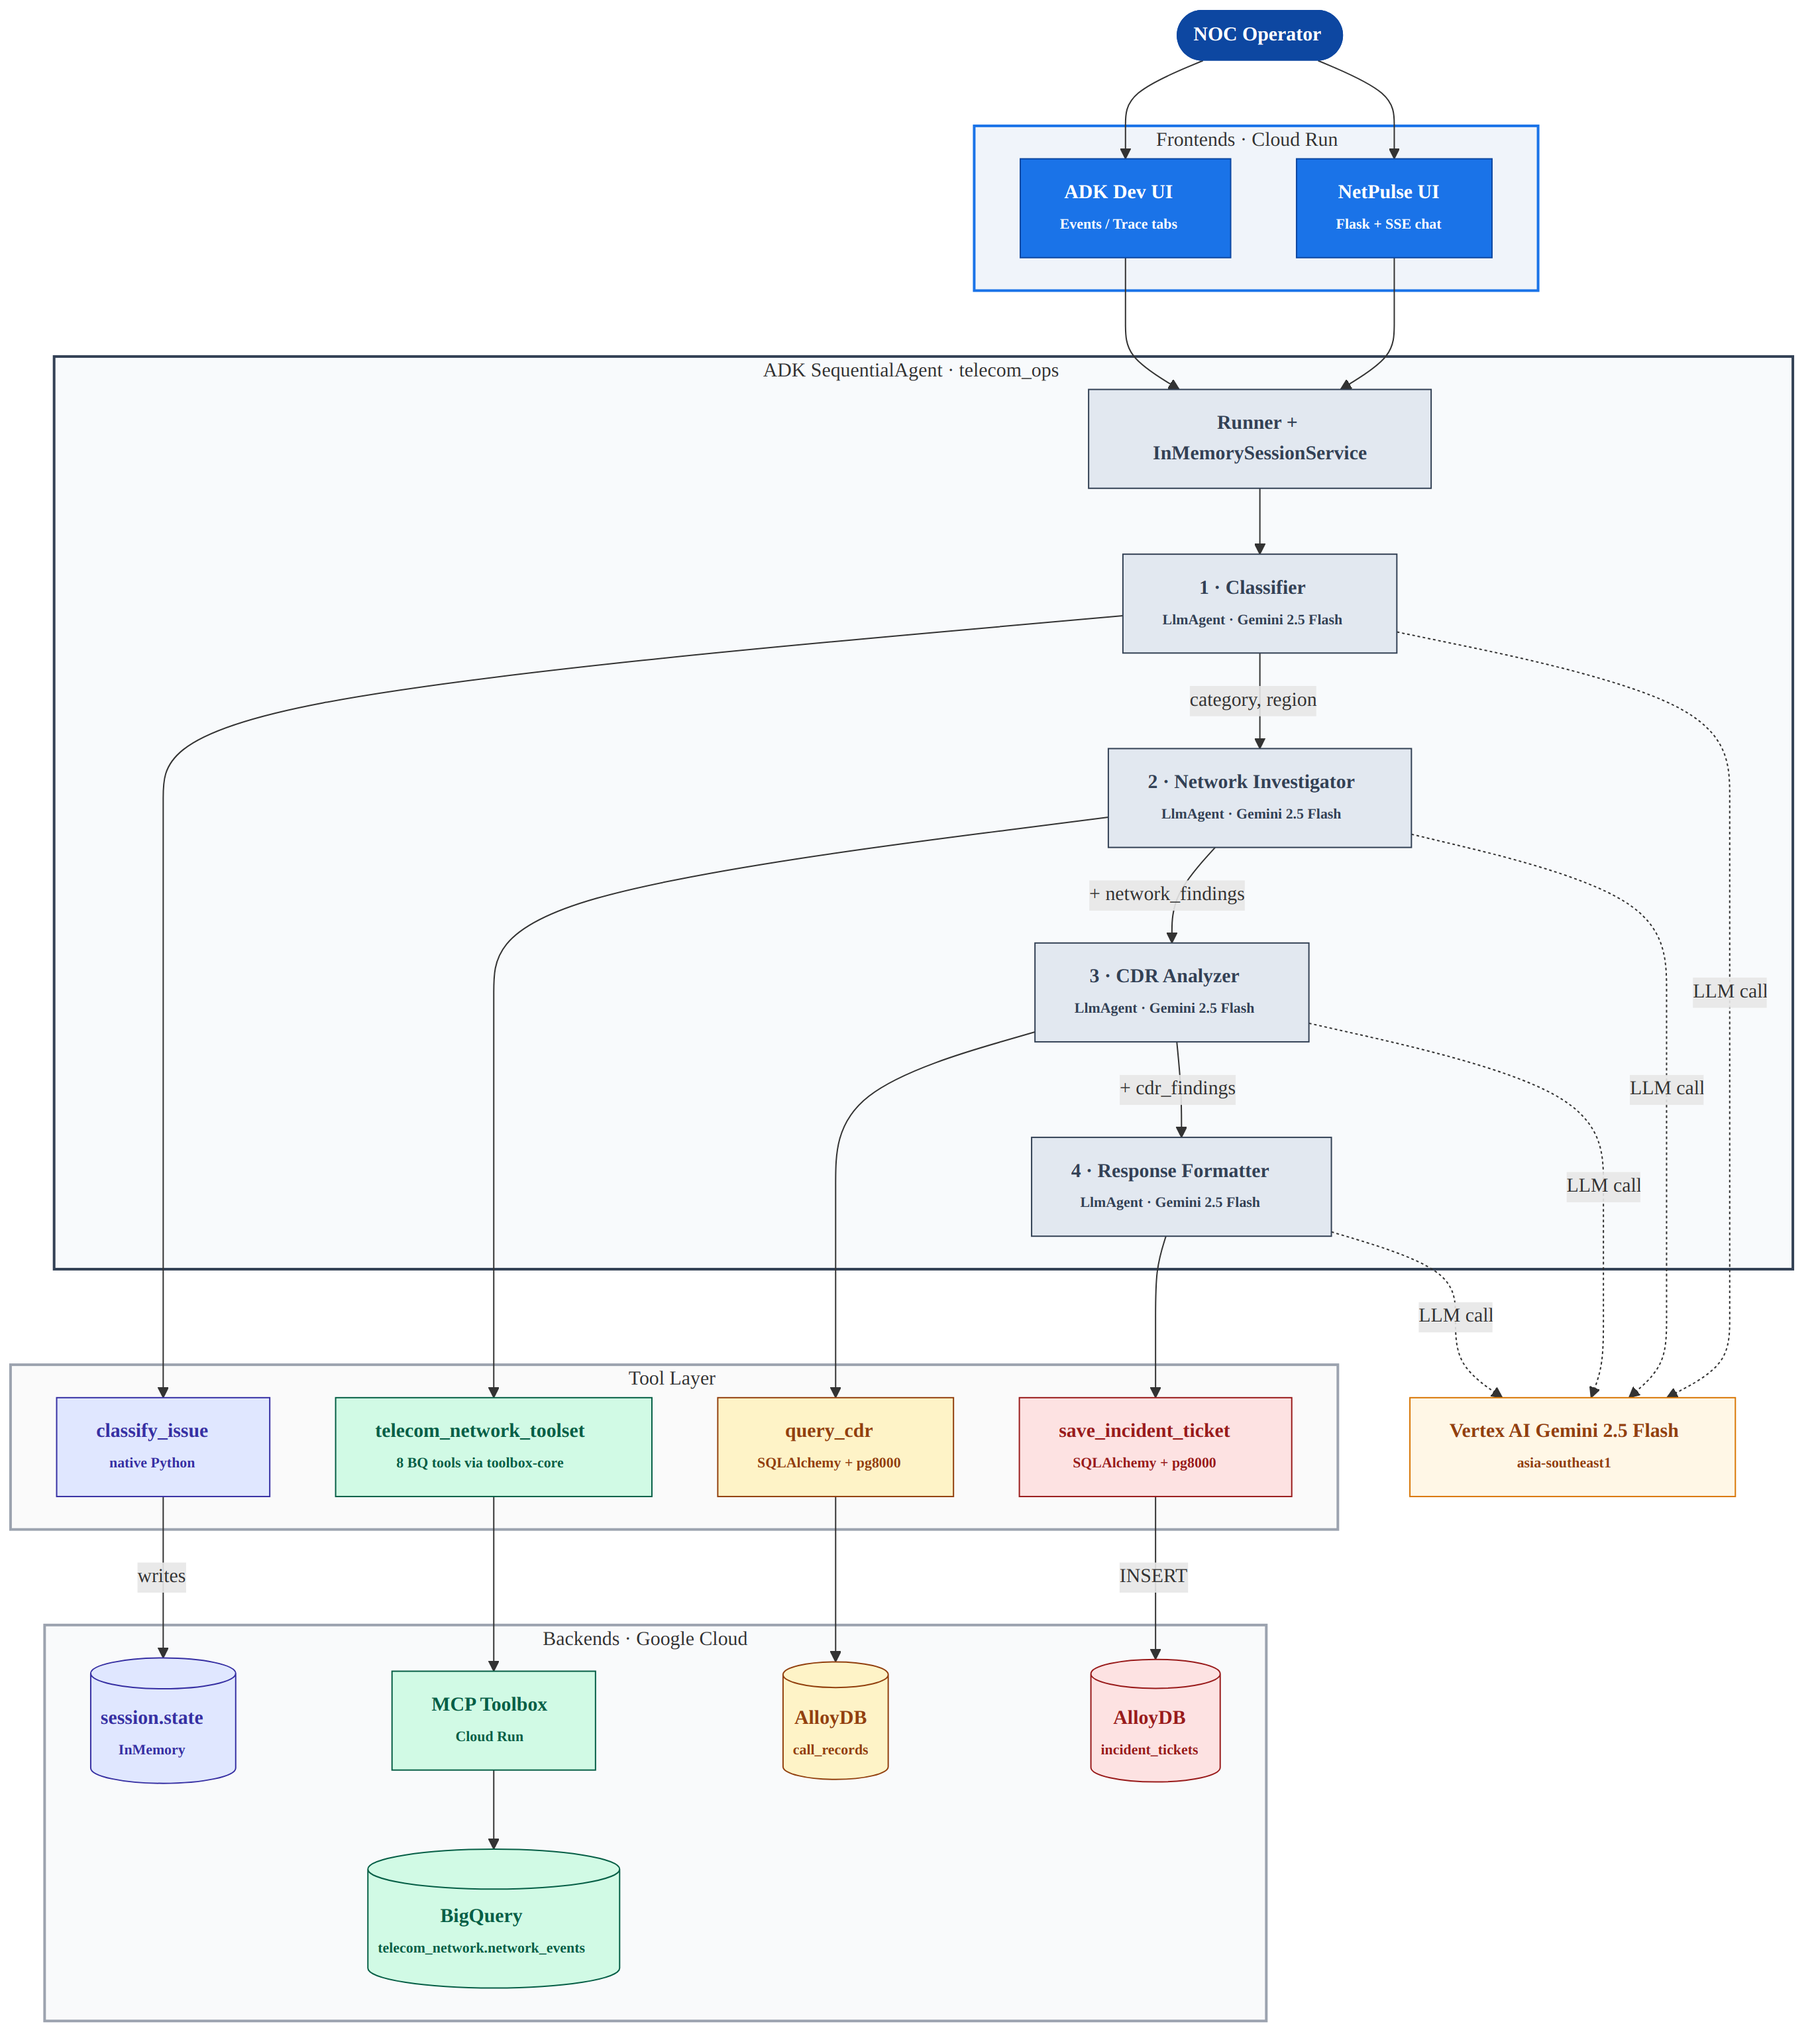
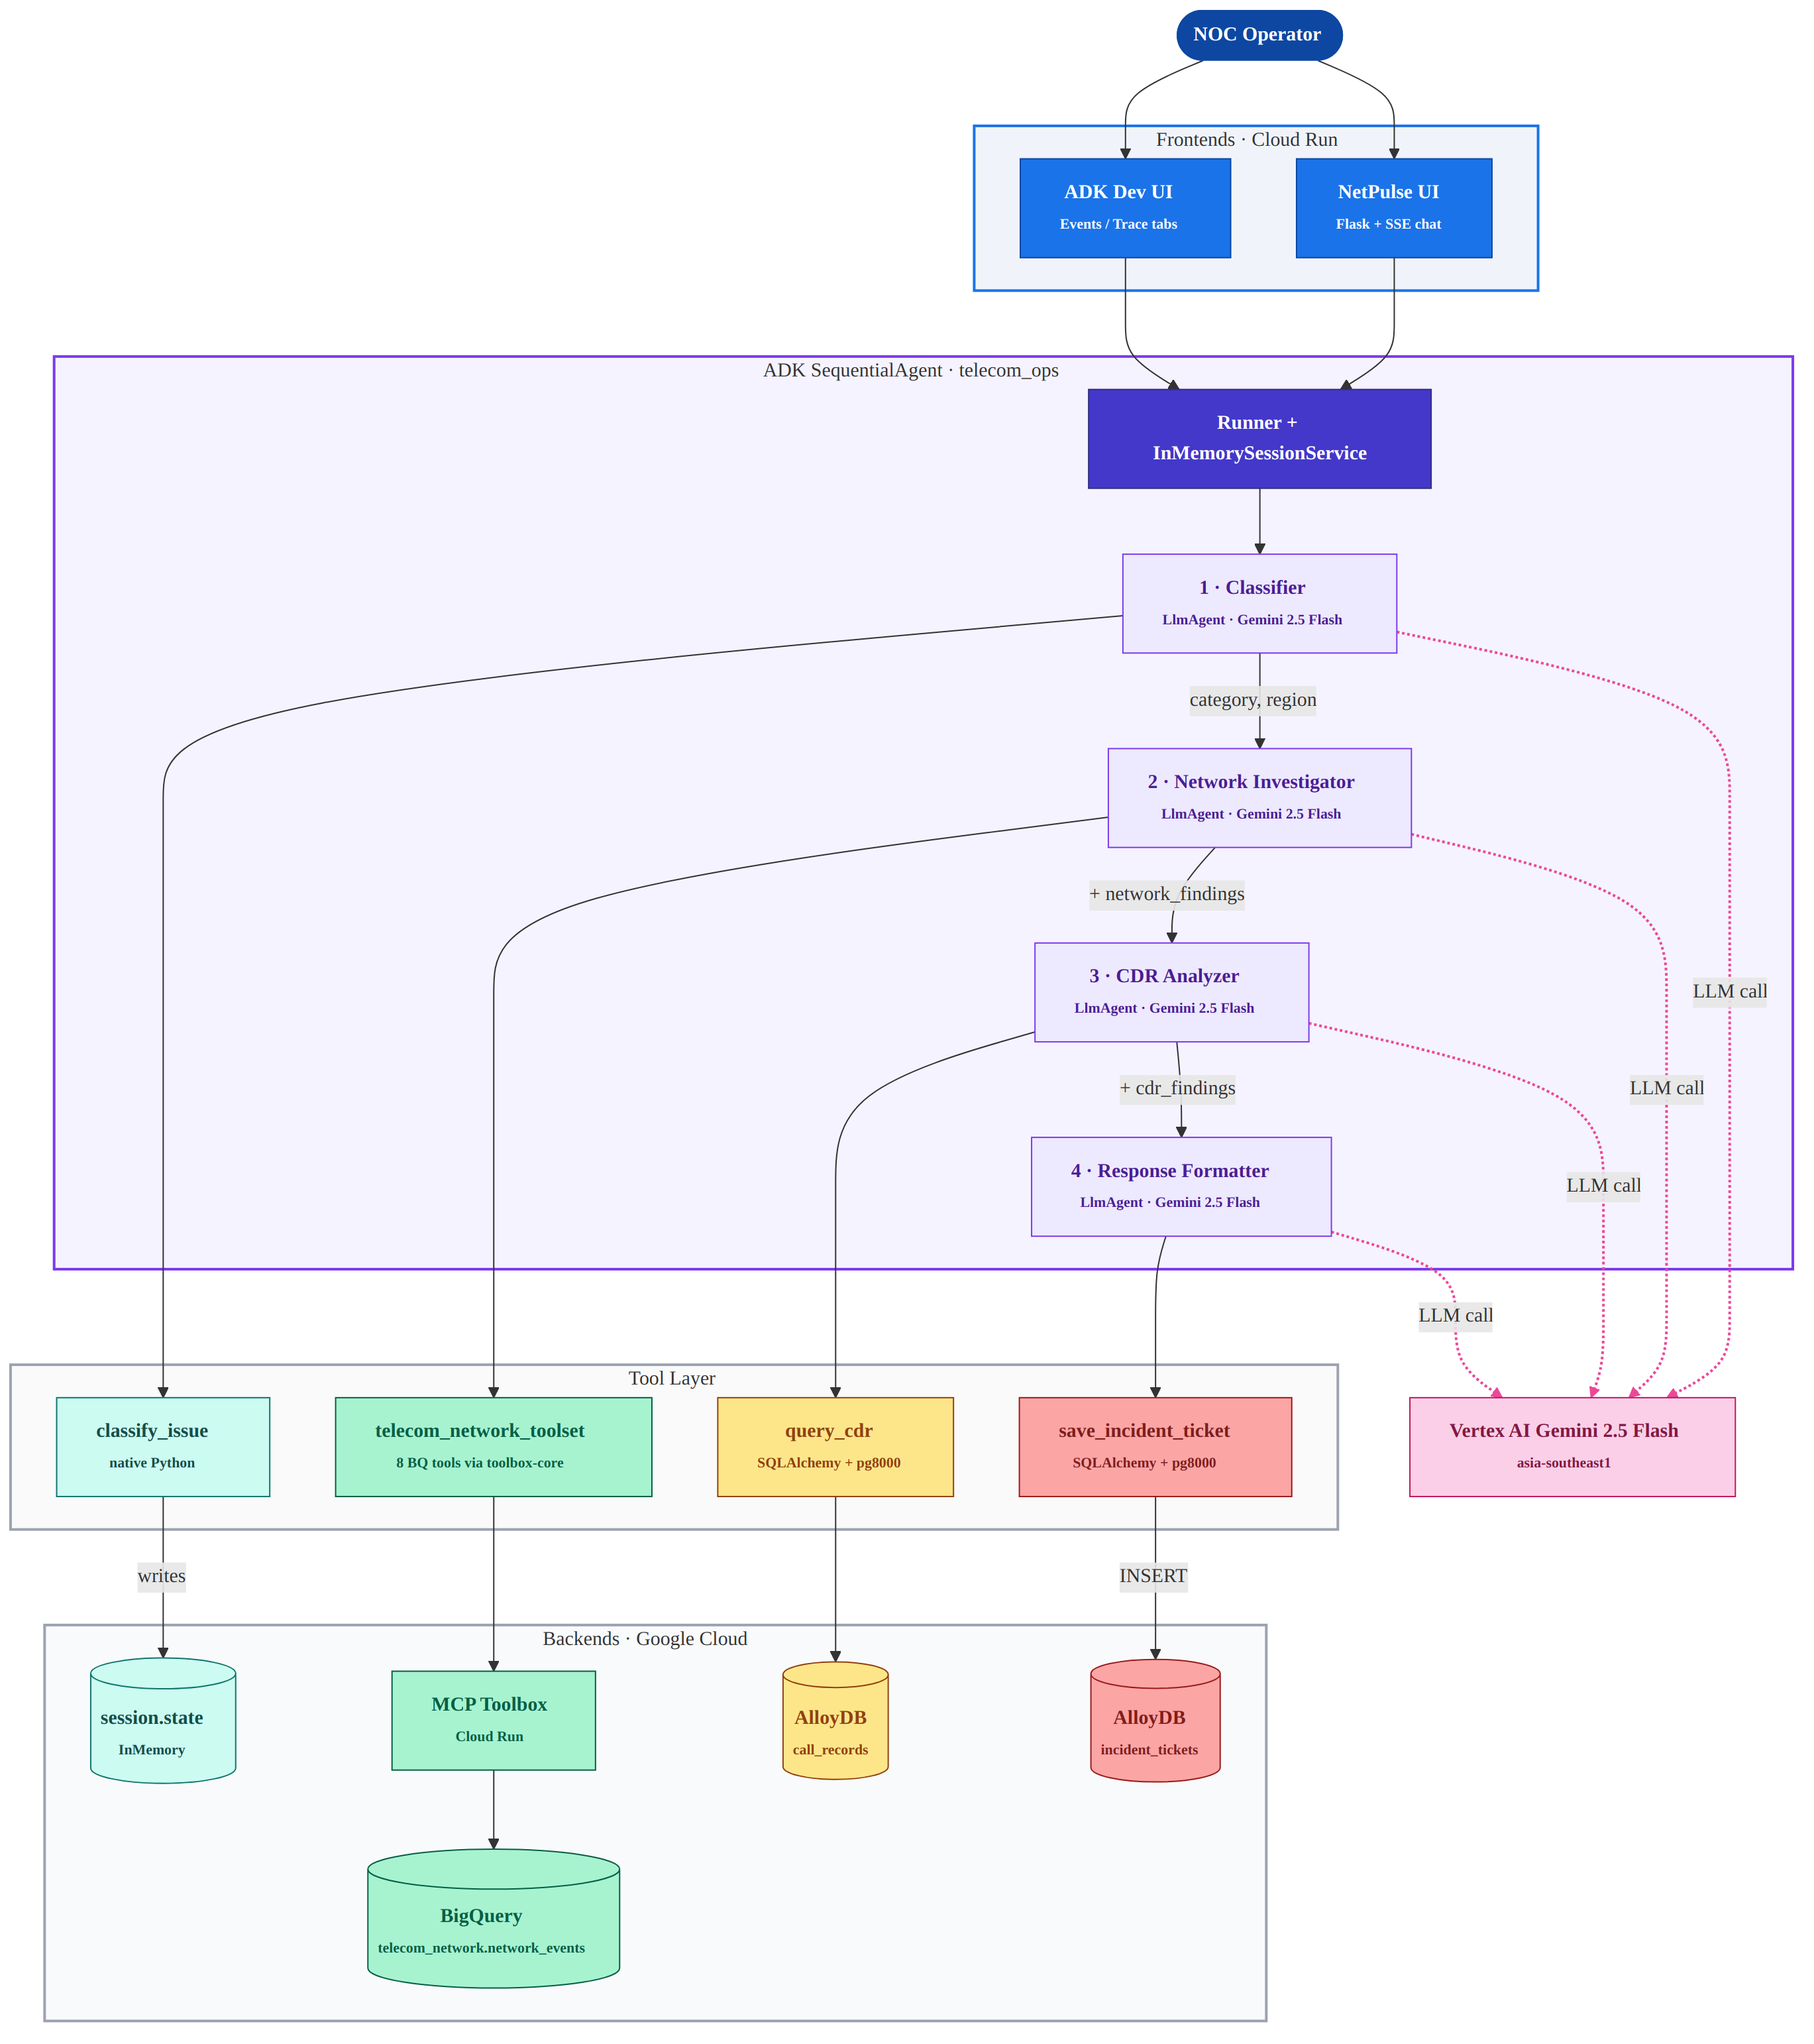
docs: distinct mermaid diagram colors
Make orchestration (deep indigo runner + lavender agents), native code
(teal), MCP/BigQuery (green), AlloyDB read (amber), AlloyDB write
(coral red), and Vertex AI (pink) visually distinct from each other.
Color the LLM call edges pink to match Vertex so the four routes are
obvious at a glance. Re-render architecture.png from the updated source.

diff --git a/README.md b/README.md
@@ -181,16 +181,17 @@ flowchart TB
 
     classDef user fill:#0d47a1,stroke:#0d47a1,color:#ffffff,font-weight:600
     classDef fe fill:#1a73e8,stroke:#0d47a1,color:#ffffff,font-weight:600
-    classDef adk fill:#e2e8f0,stroke:#334155,color:#334155,font-weight:600
-    classDef local fill:#e0e7ff,stroke:#3730a3,color:#3730a3,font-weight:600
-    classDef mcp fill:#d1fae5,stroke:#065f46,color:#065f46,font-weight:600
-    classDef alloydb fill:#fef3c7,stroke:#92400e,color:#92400e,font-weight:600
-    classDef alloydbWrite fill:#fde2e2,stroke:#991b1b,color:#991b1b,font-weight:600
-    classDef vertex fill:#fff7e6,stroke:#d97706,color:#92400e,font-weight:600
+    classDef runner fill:#4338ca,stroke:#312e81,color:#ffffff,font-weight:600
+    classDef adk fill:#ede9fe,stroke:#7c3aed,color:#4c1d95,font-weight:600
+    classDef local fill:#ccfbf1,stroke:#0f766e,color:#134e4a,font-weight:600
+    classDef mcp fill:#a7f3d0,stroke:#065f46,color:#065f46,font-weight:600
+    classDef alloydb fill:#fde68a,stroke:#92400e,color:#92400e,font-weight:600
+    classDef alloydbWrite fill:#fca5a5,stroke:#991b1b,color:#7f1d1d,font-weight:600
+    classDef vertex fill:#fbcfe8,stroke:#be185d,color:#831843,font-weight:600
 
     class User user
     class UI,ADK fe
-    class Runner adk
+    class Runner runner
     class A1,A2,A3,A4 adk
     class T1 local
     class T2 mcp
@@ -203,9 +204,11 @@ flowchart TB
     class Vertex vertex
 
     style FE         fill:#f0f4fa,stroke:#1a73e8,stroke-width:2px
-    style ORCH       fill:#f8fafc,stroke:#334155,stroke-width:2px
+    style ORCH       fill:#f5f3ff,stroke:#7c3aed,stroke-width:2px
     style TOOLS      fill:#fafafa,stroke:#9ca3af,stroke-width:2px
     style BACKENDS   fill:#f9fafb,stroke:#9ca3af,stroke-width:2px
+
+    linkStyle 17,18,19,20 stroke:#ec4899,stroke-width:2px
 ```
 
 ## How It Works
